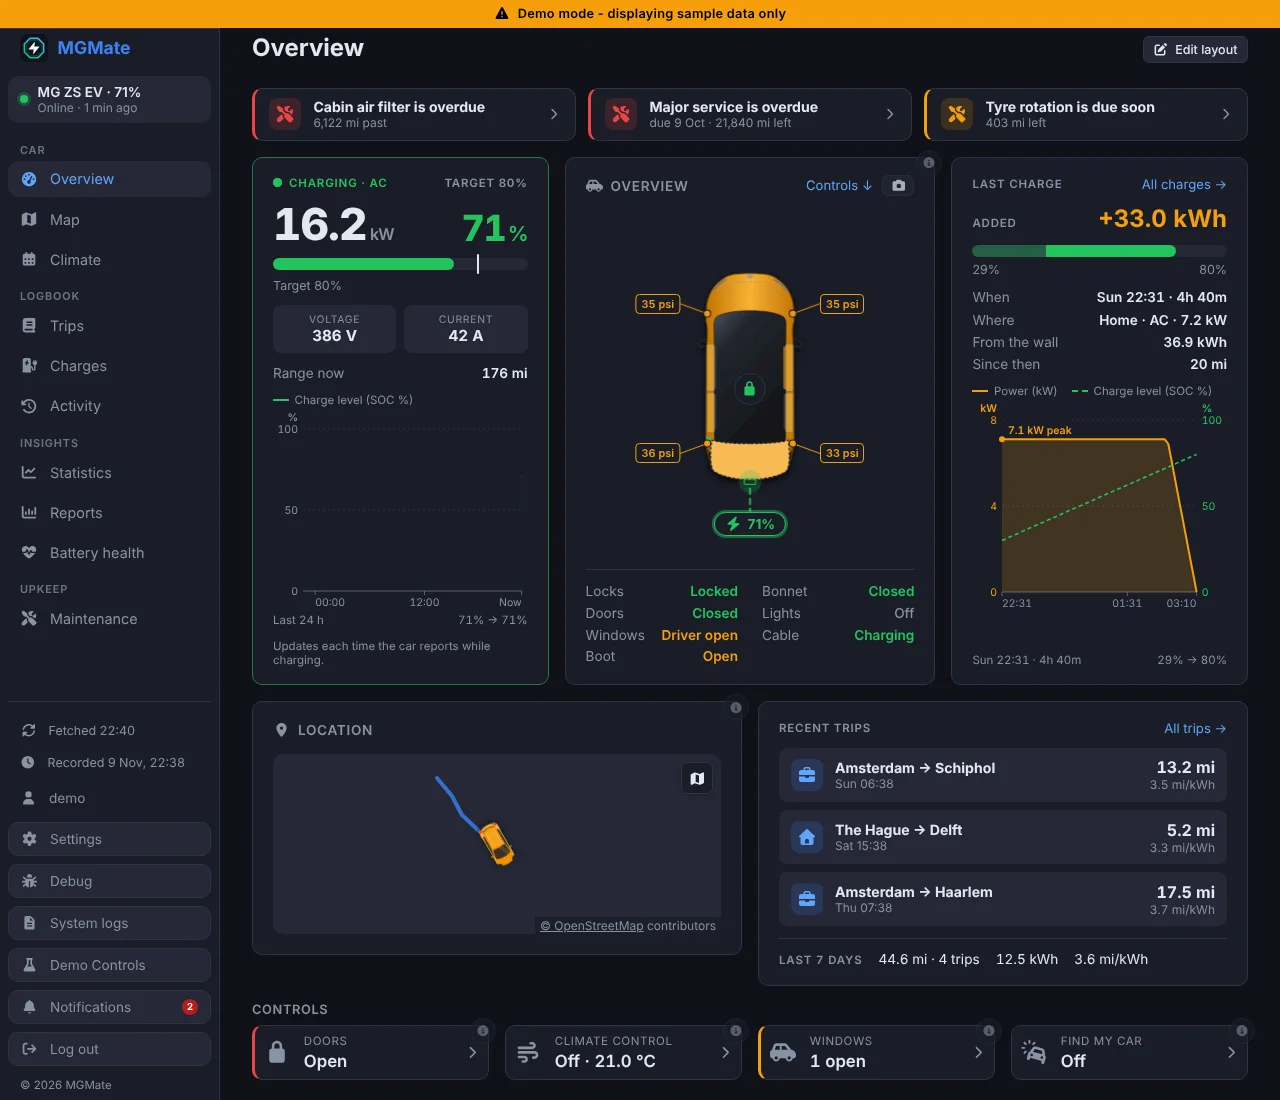
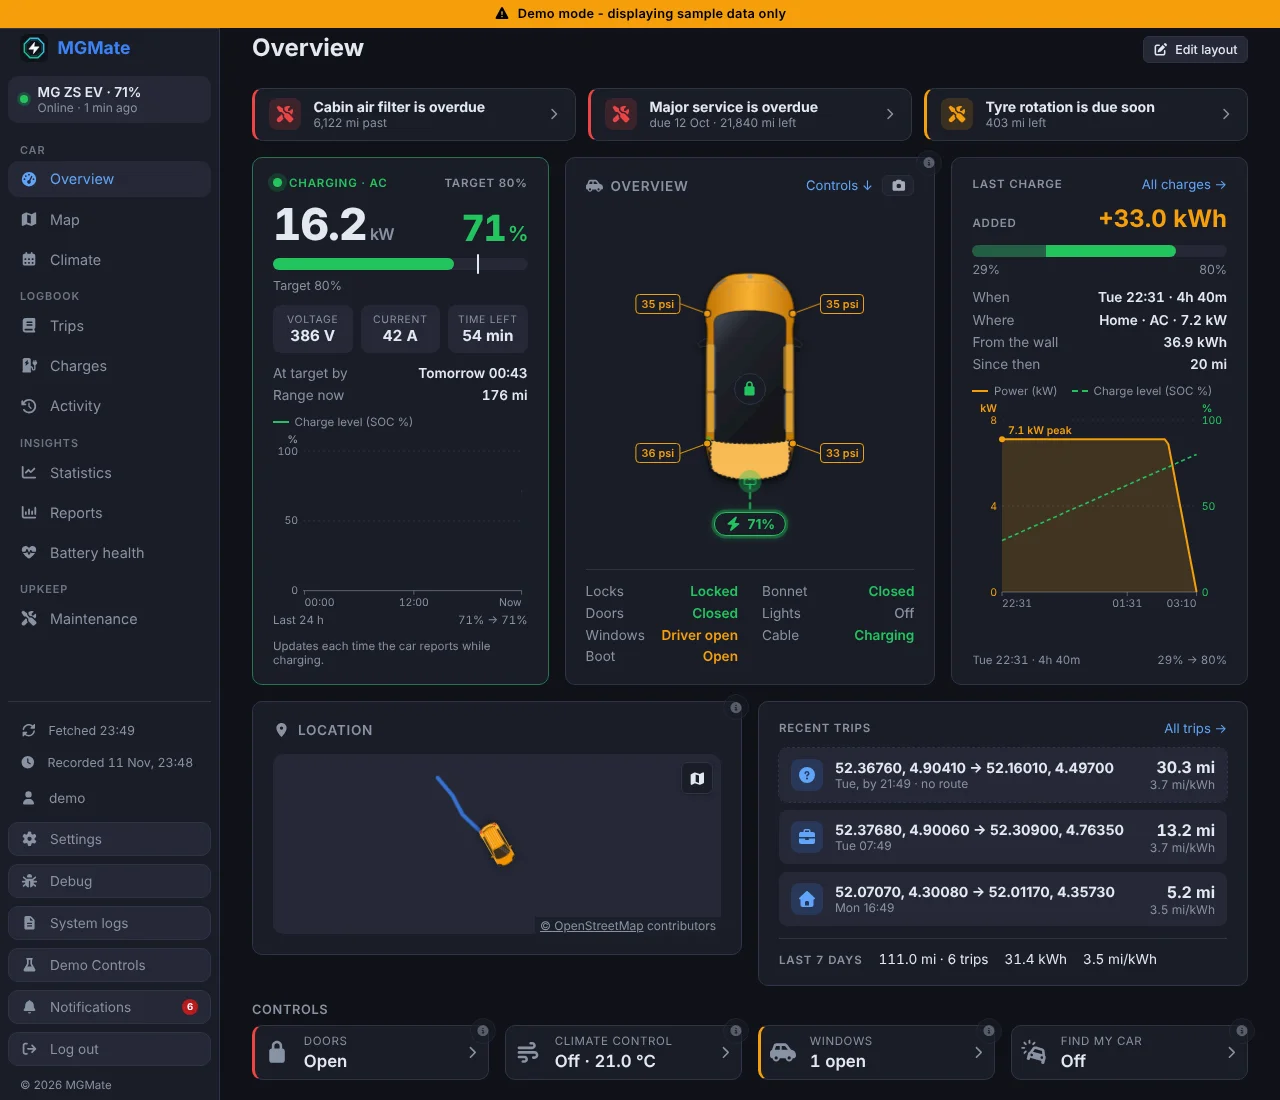
Fix the charging time left (351h instead of 5h 51m) and the "At target by" time (#41)
The gateway publishes remainingChargingTime in seconds (MG's minutes times 60), but the
Overview charging card, the Charging card and the level details read it as minutes, so a
5h 51m charge showed as 351h 0m. The "At target by" row passed an ISO date to a formatter
for "HH:mm" text, so it showed the raw string; it now reads "Tomorrow 05:30".

The demo car now reports a time left while it charges, and the README and the charging
screenshots show it.

Claude-Session: https://claude.ai/code/session_01JCP7VZjoRtp2VfJWABKSzW

diff --git a/frontend/src/components/overview/BatteryOverviewCard.vue b/frontend/src/components/overview/BatteryOverviewCard.vue
@@ -5,8 +5,10 @@ import { useVehicleStore } from '@/stores/vehicle'
 import { useUnits } from '@/composables/useUnits'
 import { useRelativeTime } from '@/composables/useRelativeTime'
 import { activityApi, type ActivityTimeline } from '@/services/activityApi'
-import { formatNumber, formatTimeOfDay } from '@/utils/format'
+import { formatNumber } from '@/utils/format'
 import { formatDurationMs } from '@/utils/tripRows'
+import { chargeSecondsLeft, formatChargeTimeLeft } from '@/utils/chargeTime'
+import { runLabel } from '@/utils/climateSchedule'
 import OverviewChart from './OverviewChart.vue'
 import type { ChartSeries } from './chart'
 
@@ -200,10 +202,8 @@ const chargeKind = computed(() => {
   return powerKw.value > 22 ? 'dc' : 'ac'
 })
 
-const remainingMin = computed(() => {
-  const m = s.value?.remainingChargingTime ?? null
-  return m !== null && m > 0 ? m : null
-})
+// The car's own estimate (the one the MG app shows), which the gateway gives in seconds.
+const remainingSec = computed(() => chargeSecondsLeft(s.value?.remainingChargingTime))
 
 const live = computed(() => {
   const x = s.value
@@ -223,8 +223,12 @@ const live = computed(() => {
       key: 'fullBy',
       label: t('overview.live.fullBy'),
       value:
-        remainingMin.value !== null
-          ? formatTimeOfDay(new Date(now.value + remainingMin.value * 60_000).toISOString())
+        remainingSec.value !== null
+          ? runLabel(
+              new Date(now.value + remainingSec.value * 1000).toISOString(),
+              new Date(now.value),
+              t,
+            )
           : null,
     },
     {
@@ -258,7 +262,7 @@ const live = computed(() => {
     power: powerKw.value !== null ? formatNumber(powerKw.value, 1) : null,
     voltage: x.hvVoltage != null ? `${formatNumber(x.hvVoltage, 0)} V` : null,
     current: x.hvCurrent != null ? `${formatNumber(Math.abs(x.hvCurrent), 0)} A` : null,
-    timeLeft: remainingMin.value !== null ? formatDurationMs(remainingMin.value * 60_000, t) : null,
+    timeLeft: formatChargeTimeLeft(remainingSec.value, t),
     startSoc: start.soc,
     rows,
   }

diff --git a/frontend/src/components/ChargingSessionCard.vue b/frontend/src/components/ChargingSessionCard.vue
@@ -9,6 +9,7 @@ import ChargingScheduleForm from './ChargingScheduleForm.vue'
 import { useVehicleCommand } from '@/composables/useVehicleCommand'
 import { formatDateTime, formatNumber, formatTimeOfDay } from '@/utils/format'
 import { gatewayLabel } from '@/utils/gatewayLabel'
+import { formatChargeTimeLeft } from '@/utils/chargeTime'
 import StatusBadge from '@/components/StatusBadge.vue'
 
 const i18n = useI18n()
@@ -52,8 +53,8 @@ function setCableLock(lock: boolean) {
 const summaryValue = computed((): string | null => {
   const parts: string[] = []
   if (obcPower.value !== null) parts.push(`${formatNumber(obcPower.value)} kW`)
-  if (props.remainingChargingTime !== null)
-    parts.push(`${props.remainingChargingTime} ${t('common.min')}`)
+  const left = formatChargeTimeLeft(props.remainingChargingTime, t)
+  if (left) parts.push(left)
   if (parts.length) return parts.join(' · ')
   if (props.chargingType) return props.chargingType
   if (props.chargingCableLock !== null)
@@ -191,7 +192,7 @@ const scheduleModeLabel = computed(() =>
       <DetailListItem
         v-if="remainingChargingTime !== null"
         icon="clock"
-        :value="`${remainingChargingTime} ${t('common.min')}`"
+        :value="formatChargeTimeLeft(remainingChargingTime, t) ?? ''"
         :label="t('vehicle.remainingCharge')"
       />
       <DetailListItem

diff --git a/frontend/src/components/DashboardCardContent.vue b/frontend/src/components/DashboardCardContent.vue
@@ -29,6 +29,7 @@ import { energyUnit, hvBatteryReading, litres, litresPer100Km, whPerKm } from '@
 import { evLevelVariant, fuelLevelVariant } from '@/utils/levels'
 import { plugsIn } from '@/utils/vehicleType'
 import { ODOMETER_FORMAT, type Measure, type MeasureOptions, type Quantity } from '@/utils/units'
+import { chargeSecondsLeft } from '@/utils/chargeTime'
 import { useUnits } from '@/composables/useUnits'
 
 const props = defineProps<{ cardId: CardId }>()
@@ -57,6 +58,11 @@ const cardData = useCardData()
 const vehicleType = computed(() => store.effectiveVehicleType)
 const latestTrip = computed(() => store.latestTrip)
 const topSpeedKmh = computed(() => latestTrip.value?.maxSpeedKmh ?? null)
+
+function minutesLeft(seconds: number | null): number | null {
+  const left = chargeSecondsLeft(seconds)
+  return left === null ? null : Math.round(left / 60)
+}
 
 // A card's value and unit, from a metric reading in the browser's units.
 function measured(
@@ -217,7 +223,8 @@ const simpleCards = computed((): SimpleCardConfig[] => {
     {
       id: 'remainingCharge',
       label: t('vehicle.remainingCharge'),
-      value: s.remainingChargingTime,
+      // The gateway gives seconds; the card counts minutes.
+      value: minutesLeft(s.remainingChargingTime),
       unit: t('common.min'),
       variant: 'info',
     },

diff --git a/frontend/src/composables/useLevelDetails.ts b/frontend/src/composables/useLevelDetails.ts
@@ -5,6 +5,7 @@ import { useVehicleStore } from '@/stores/vehicle'
 import type { LevelKind } from '@/composables/useStatisticsCharts'
 import { formatDateTime, formatNumber } from '@/utils/format'
 import type { BadgeVariant } from '@/utils/levels'
+import { formatChargeTimeLeft } from '@/utils/chargeTime'
 import { plugsIn } from '@/utils/vehicleType'
 import { useUnits } from './useUnits'
 
@@ -75,10 +76,7 @@ export function useLevelDetails(level: Ref<LevelKind>): Ref<LevelDetail[]> {
         key: 'remaining',
         icon: 'clock',
         label: t('vehicle.remainingCharge'),
-        value:
-          s.isCharging && s.remainingChargingTime !== null
-            ? `${s.remainingChargingTime} ${t('common.min')}`
-            : null,
+        value: s.isCharging ? formatChargeTimeLeft(s.remainingChargingTime, t) : null,
       },
       {
         key: 'target',

diff --git a/frontend/src/utils/chargeTime.ts b/frontend/src/utils/chargeTime.ts
@@ -1,0 +1,21 @@
+import { formatDurationMs } from './tripRows'
+
+type Translate = (key: string, params?: Record<string, unknown>) => string
+
+/**
+ * The gateway reports the time left on a charge in SECONDS (MG's own minutes times 60, published
+ * as a Home Assistant duration in "s"), so 21060 is 5h 51m, not 351 hours. Nothing, or zero,
+ * means the car gave no estimate.
+ */
+export function chargeSecondsLeft(seconds: number | null | undefined): number | null {
+  return seconds != null && Number.isFinite(seconds) && seconds > 0 ? seconds : null
+}
+
+/** The time left on a charge, the way the MG app shows it: "45 min" or "5h 51m". */
+export function formatChargeTimeLeft(
+  seconds: number | null | undefined,
+  t: Translate,
+): string | null {
+  const left = chargeSecondsLeft(seconds)
+  return left === null ? null : formatDurationMs(left * 1000, t)
+}

diff --git a/frontend/src/utils/__tests__/chargeTime.spec.ts b/frontend/src/utils/__tests__/chargeTime.spec.ts
@@ -1,0 +1,20 @@
+import { describe, expect, it } from 'vitest'
+import { chargeSecondsLeft, formatChargeTimeLeft } from '../chargeTime'
+
+const t = (key: string, p?: Record<string, unknown>) =>
+  key === 'trips.durationMinutes' ? `${p?.n} min` : `${p?.h}h ${p?.m}m`
+
+describe('charge time left', () => {
+  it('reads the gateway value as seconds, the way the MG app shows it', () => {
+    // 22% to 100% at 6.4 kW: MG app "5 Hours 48 min"; the gateway sent 21060, not 351 hours.
+    expect(formatChargeTimeLeft(21060, t)).toBe('5h 51m')
+    expect(formatChargeTimeLeft(2700, t)).toBe('45 min')
+  })
+
+  it('has nothing to show without an estimate', () => {
+    expect(chargeSecondsLeft(null)).toBeNull()
+    expect(chargeSecondsLeft(0)).toBeNull()
+    expect(chargeSecondsLeft(-1)).toBeNull()
+    expect(formatChargeTimeLeft(undefined, t)).toBeNull()
+  })
+})

diff --git a/frontend/src/components/__tests__/LevelHistoryModal.spec.ts b/frontend/src/components/__tests__/LevelHistoryModal.spec.ts
@@ -166,7 +166,7 @@ describe('LevelHistoryModal', () => {
         evSocPercent: 64,
         isCharging: true,
         chargerConnected: true,
-        remainingChargingTime: 45,
+        remainingChargingTime: 2700,
       }),
     )
 

diff --git a/src/MGMate.Data/Demo/DemoTelemetryRepository.cs b/src/MGMate.Data/Demo/DemoTelemetryRepository.cs
@@ -196,6 +196,15 @@ public sealed class DemoTelemetryRepository : ITelemetryRepository
         return Task.FromResult(new VehicleAggregateStats(pct, on, known));
     }
 
+    // The car's own estimate of the time to its charge target, in seconds, the way the gateway
+    // publishes it (MG's minutes times 60), at a home wallbox's 7 kW.
+    private static int? DemoSecondsToTarget(TelemetrySnapshot car)
+    {
+        if (car.EvSocPercent is not { } soc || car.SocTargetPercent is not { } target || target <= soc) return null;
+        var kwh = (target - soc) / 100.0 * (car.HvTotalCapacityKwh ?? 70.0);
+        return (int)Math.Round(kwh / 7.0 * 60) * 60;
+    }
+
     public void ApplyOverride(DemoStatusOverrideDto dto)
     {
         lock (_lock)
@@ -218,7 +227,11 @@ public sealed class DemoTelemetryRepository : ITelemetryRepository
             if (dto.RearLeftWindowOpen.HasValue) _current.RearLeftWindowOpen = dto.RearLeftWindowOpen;
             if (dto.RearRightWindowOpen.HasValue) _current.RearRightWindowOpen = dto.RearRightWindowOpen;
             if (dto.ChargerConnected.HasValue) _current.ChargerConnected = dto.ChargerConnected;
-            if (dto.IsCharging.HasValue) _current.IsCharging = dto.IsCharging;
+            if (dto.IsCharging.HasValue)
+            {
+                _current.IsCharging = dto.IsCharging;
+                _current.RemainingChargingTime = dto.IsCharging.Value ? DemoSecondsToTarget(_current) : null;
+            }
             if (dto.LightsMainBeam.HasValue) _current.LightsMainBeam = dto.LightsMainBeam;
             if (dto.LightsDippedBeam.HasValue) _current.LightsDippedBeam = dto.LightsDippedBeam;
             if (dto.LightsSide.HasValue) _current.LightsSide = dto.LightsSide;

diff --git a/README.md b/README.md
@@ -10,7 +10,7 @@
 
 MGMate is a free, open-source web app for **modern MG cars**, the ones built by SAIC Motor such as the MG4, MG5, ZS EV and HS PHEV. It signs in to the SAIC iSmart API, the same backend the official MG iSmart app uses, records everything the car reports, and turns it into a logbook you can actually use, on a desktop or a phone:
 
-- **See the car at a glance.** Battery, range and the last 24 hours of charge level, the last charge with its power curve, and one Overview card with a drawing of the car from above: the tyre pressures at each wheel, which doors, windows, boot or bonnet are open, whether it is locked and whether the cable is in, and the same in a list underneath. While the car charges, the battery card turns into a live charging card with the power, voltage, current and target.
+- **See the car at a glance.** Battery, range and the last 24 hours of charge level, the last charge with its power curve, and one Overview card with a drawing of the car from above: the tyre pressures at each wheel, which doors, windows, boot or bonnet are open, whether it is locked and whether the cable is in, and the same in a list underneath. While the car charges, the battery card turns into a live charging card with the power, voltage, current and target, and the car's own estimate of the time left (the same one the MG app shows) with the time it reaches the target.
 - **Every trip, logged.** Trips are saved automatically with the energy they used, mi/kWh, driving and stopped time, the outside temperature and the battery they started and ended on, drawn on the map along the roads you took. A drive MG never announced (a start with the phone's digital key, for one) is picked up as soon as a status read sees the engine on and followed from there; the start it missed is added from the odometer, as a **Part route** trip; one that ends before that is still logged from the odometer and the battery, as a trip without a route.
 - **Every charge, logged.** Each plug-in becomes a charge session: energy added, AC or DC, peak power, how long it took, where it was, and what it cost at your electricity prices, with what came from the wall next to what reached the battery.
 - **Reports, month by month.** Distance, trips, driving time, consumption, energy charged and charging cost for each month, against the month before, with a 12-month chart and a yearly table.
@@ -137,7 +137,7 @@ Thanks to Jos for the foundation.
 - **Reports** -- A page per month with distance, trips, driving time, days driven, consumption, energy used, charges, energy charged and charging cost, each against the month before, plus a 12-month chart and a table of the year.
 - **Battery health** -- The usable capacity worked out from charges that covered at least 20 % of the battery, compared with the pack when new (51, 64 or 77 kWh, or your own), with the trend and every reading on a chart. The car only knows its exact charge level after a full charge (LFP packs drift the most), so health shows *Calibrating* until a charge reaches 100 %; from then on only readings with a full charge in the 30 days before them count, and the earlier ones are drawn hollow. Health never shows above 100 %: a pack that reads above new says so in a note, and fewer than five readings are marked as an early estimate.
 - **Activity** -- A 24-hour strip and a timeline of when the car drove, charged, slept or went quiet, read from the car's own reports.
-- **Overview** -- The battery with its range and a 24-hour charge level chart, which starts at the level the car last reported, so a car that sat parked for hours without a reading still gets a line across the whole day; one **Overview card** with the car from above, traced from a real MG4 in the car colour from Settings, with the tyre pressures at each wheel, open doors, windows, boot and bonnet, the lock on the roof and the charging cable, on the road with its speed while driving (or your own photo of it while parked), and the car status in a list underneath (locks, doors, windows, boot, bonnet, sunroof when the car reports one, lights and cable); the last charge with the energy added, where, what came from the wall, the miles since, and its charging power curve with the peak marked; where the car is; and the latest trips. Hiding the Overview card under Edit layout brings back a separate Car status card. While the car charges, the battery card becomes a **live charging card** with the power, voltage, current, the charge target and the range so far. The charts have labelled axes, units and a legend. Values arrive live over a WebSocket; while that connection is down, the page asks for the latest status every minute so it never sits on stale numbers.
+- **Overview** -- The battery with its range and a 24-hour charge level chart, which starts at the level the car last reported, so a car that sat parked for hours without a reading still gets a line across the whole day; one **Overview card** with the car from above, traced from a real MG4 in the car colour from Settings, with the tyre pressures at each wheel, open doors, windows, boot and bonnet, the lock on the roof and the charging cable, on the road with its speed while driving (or your own photo of it while parked), and the car status in a list underneath (locks, doors, windows, boot, bonnet, sunroof when the car reports one, lights and cable); the last charge with the energy added, where, what came from the wall, the miles since, and its charging power curve with the peak marked; where the car is; and the latest trips. Hiding the Overview card under Edit layout brings back a separate Car status card. While the car charges, the battery card becomes a **live charging card** with the power, voltage, current, the charge target and the range so far, plus the time left and when the car reaches its target ("Tomorrow 05:30"). The time left is the car's own estimate, the one the MG app shows; the gateway sends it in seconds. The charts have labelled axes, units and a legend. Values arrive live over a WebSocket; while that connection is down, the page asks for the latest status every minute so it never sits on stale numbers.
 - **Live dashboard cards** -- Behind **Edit layout**, the classic wall of status cards (see [Dashboard cards](#dashboard-cards)) can be switched on, reordered and toggled. Cards are shown or hidden based on your vehicle type (HEV, PHEV, BEV). The car drawing takes your car's colour (Settings > Your car), and the vehicle type can be set by hand there when detection gets it wrong.
 - **MG sign-in status** -- When the gateway cannot sign in to your MG account, the sidebar's car status turns red and a banner says "MG sign-in failed", so you know why the data stopped. The sidebar also shows when data was last fetched (tap it to refresh, which asks first because it wakes the car) and the version, under Log out.
 - **Settings page** -- Settings is a page (`/settings`) with a section list: appearance, region and units, dashboard, map, your car (colour, vehicle type, licence plate), **home location**, notifications, API tokens, your data, and Advanced. Home location is a point on a map with a radius from 50 m to 1 km: a charge that ends inside it counts as a home charge and is priced with your home tariff; anywhere else is public. The home place set under Trip log > Home and work labels home charges too.
